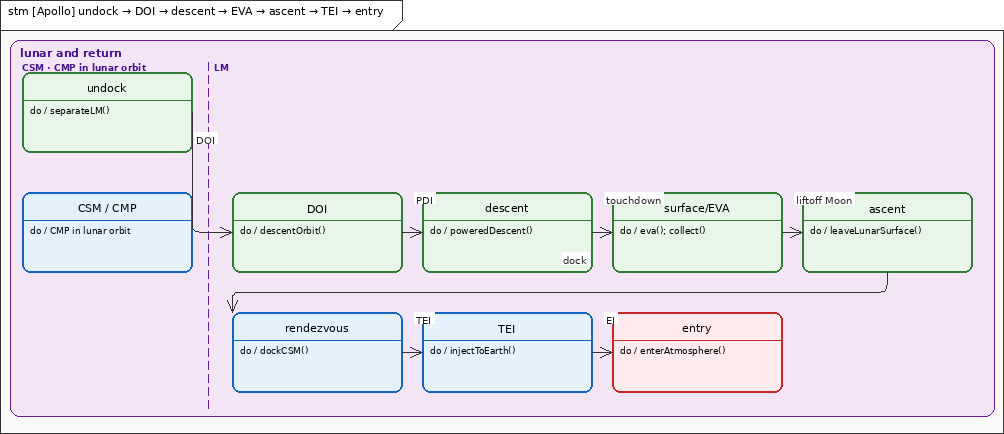
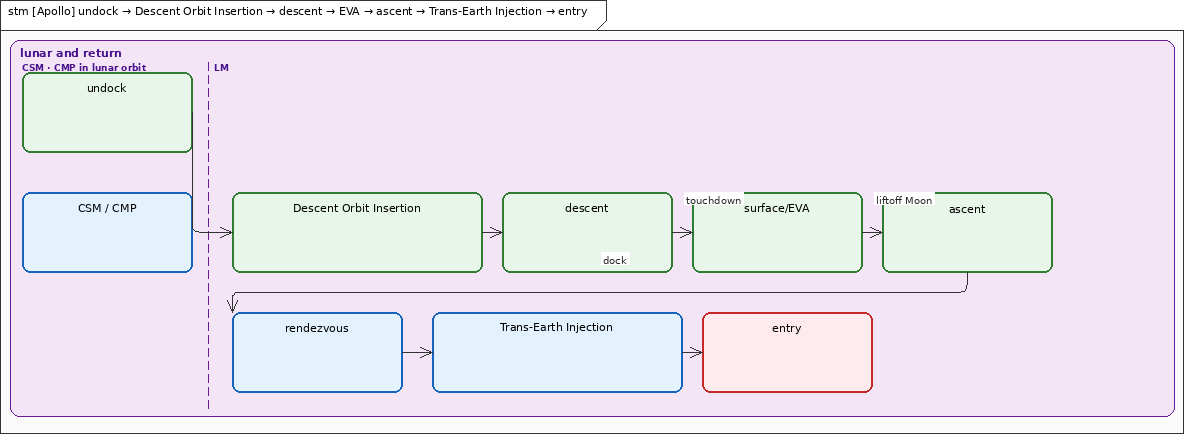
Spell leftover clock labels and keep code do lines off the boxes.
Earth orbit and second-stage cutoff on the outbound page. Descent Orbit
Insertion and Trans-Earth Injection on the lunar page. Views no longer
inherit model do/entry/exit, so separateLM() stays in the model only.
apollo-bdd is unchanged.

diff --git a/tests/test_apollo_example.py b/tests/test_apollo_example.py
@@ -783,8 +783,10 @@ class ApolloExampleTests(unittest.TestCase):
         self.assertEqual(by_id["s-TLI"]["display_name"], "Translunar Injection")
         self.assertEqual(by_id["s-LOI"]["display_name"], "Lunar Orbit Insertion")
         self.assertEqual(by_id["s-rso"]["display_name"], "Range Safety Officer")
+        self.assertEqual(by_id["s-earthOrbit"]["display_name"], "Earth orbit")
         self.assertIn("Ground Elapsed Time", stm["name"])
         stm_rels = {rel["id"]: rel for rel in stm["relationships"]}
+        self.assertEqual(stm_rels["t-boost-earthOrbit"]["name"], "second-stage cutoff")
         self.assertEqual(stm_rels["t-earthOrbit-TLI"].get("name"), "")
         self.assertEqual(stm_rels["t-translunar-LOI"].get("name"), "")
         abort = read_json_file(APOLLO / "apollo-abort.msmd")["diagram"]
@@ -814,3 +816,52 @@ class ApolloExampleTests(unittest.TestCase):
         self.assertIn("orange = engine", lm["name"])
         self.assertIn("cyan = radar", lm["name"])
         self.assertIn("red = abort", lm["name"])
+
+    def test_clock_views_spell_names_and_drop_code_do(self) -> None:
+        stm = read_json_file(APOLLO / "apollo-stm.msmd")["diagram"]
+        lunar = read_json_file(APOLLO / "apollo-stm-lunar.msmd")["diagram"]
+        stm_els = {el["id"]: el for el in stm["elements"]}
+        lunar_els = {el["id"]: el for el in lunar["elements"]}
+        self.assertEqual(stm_els["s-earthOrbit"]["display_name"], "Earth orbit")
+        self.assertEqual(lunar_els["s-DOI"]["display_name"], "Descent Orbit Insertion")
+        self.assertEqual(lunar_els["s-TEI"]["display_name"], "Trans-Earth Injection")
+        stm_rels = {rel["id"]: rel for rel in stm["relationships"]}
+        self.assertEqual(stm_rels["t-boost-earthOrbit"]["name"], "second-stage cutoff")
+        self.assertIn("Descent Orbit Insertion", lunar["name"])
+        self.assertIn("Trans-Earth Injection", lunar["name"])
+        self.assertNotIn("DOI", lunar["name"])
+        self.assertNotIn("TEI", lunar["name"])
+        for diagram in (stm, lunar):
+            for el in diagram["elements"]:
+                self.assertNotIn("do", el, el["id"])
+                self.assertNotIn("entry", el, el["id"])
+                self.assertNotIn("exit", el, el["id"])
+                self.assertNotEqual(el.get("display_name"), "earthOrbit", el["id"])
+                self.assertNotEqual(el.get("display_name"), "DOI", el["id"])
+                self.assertNotEqual(el.get("display_name"), "TEI", el["id"])
+            for rel in diagram.get("relationships") or []:
+                self.assertNotEqual(rel.get("name"), "SECO", rel["id"])
+                self.assertNotEqual(rel.get("name"), "earthOrbit", rel["id"])
+                self.assertNotEqual(rel.get("name"), "DOI", rel["id"])
+                self.assertNotEqual(rel.get("name"), "TEI", rel["id"])
+        for stem in ("apollo-stm", "apollo-stm-lunar"):
+            text = (APOLLO / f"{stem}.msmd").read_text(encoding="utf-8")
+            self.assertNotIn("SECO", text)
+            self.assertNotIn("separateLM", text)
+            self.assertNotIn('"do"', text)
+            self.assertNotIn('"entry"', text)
+        note = (APOLLO / "architecture-summary.md").read_text(encoding="utf-8")
+        self.assertIn("Earth orbit", note)
+        self.assertIn("Descent Orbit Insertion", note)
+        self.assertIn("Trans-Earth Injection", note)
+        self.assertEqual(
+            {el["id"]: el.get("display_name") for el in read_json_file(APOLLO / "apollo-lgc-stm.msmd")["diagram"]["elements"] if el.get("display_name")},
+            {
+                "l-p63": "braking",
+                "l-p64": "approach",
+                "l-p65": "auto land",
+                "l-p66": "rate of descent",
+                "l-p67": "manual",
+                "l-p68": "landing confirmation",
+            },
+        )

diff --git a/src/msml/render.py b/src/msml/render.py
@@ -216,7 +216,15 @@ class MSMLRenderer:
     # ------------------------------------------------------------ elements
 
     def _draw_element(self, draw, el):
+        view_activity = {key: el[key] for key in ("do", "entry", "exit") if key in el}
+        view_type = el.get("type")
         el = self._resolve_element(el)
+        if view_type == "state" or el.get("type") == "state":
+            for key in ("do", "entry", "exit"):
+                if key in view_activity:
+                    el[key] = view_activity[key]
+                else:
+                    el.pop(key, None)
         handler = getattr(self, f"_draw_{el['type']}", None)
         if handler:
             handler(draw, el)

diff --git a/projects/apollo/architecture-summary.md b/projects/apollo/architecture-summary.md
@@ -132,11 +132,11 @@ The mission clock cannot skip a beat. Confirm `dockEject` sits between TLI and t
 
 ![Outbound mission states from countdown through lunar orbit insertion.](apollo-stm.png)
 
-**Figure. `apollo-stm.png`.** The outbound composite holds countdown → boost → earth orbit → Translunar Injection → dockEject → translunar → Lunar Orbit Insertion. The dashed region is abort plus the Range Safety Officer, concurrent with the nominal clock until destruct is safed after Earth orbit. Locked Ground Elapsed Time numbers stay in the GET paragraph below. The locked path is Translunar Injection → dockEject → translunar → Lunar Orbit Insertion.
+**Figure. `apollo-stm.png`.** The outbound composite holds countdown → boost → Earth orbit → Translunar Injection → dock/eject → translunar → Lunar Orbit Insertion. The dashed region is abort plus the Range Safety Officer, concurrent with the nominal clock until destruct is safed after Earth orbit. Locked Ground Elapsed Time numbers stay in the GET paragraph below. The locked path is Translunar Injection → dockEject → translunar → Lunar Orbit Insertion.
 
 ![Lunar and return mission states from undock through entry.](apollo-stm-lunar.png)
 
-**Figure. `apollo-stm-lunar.png`.** After undock the page splits: CSM / CMP in lunar orbit runs concurrent with the LM from DOI through ascent. Descent, surface/EVA, and ascent still nest under the surface composite in the model. Splash and recovery live in the GET paragraph below, not on the Land box.
+**Figure. `apollo-stm-lunar.png`.** After undock the page splits: CSM / CMP in lunar orbit runs concurrent with the LM from Descent Orbit Insertion through ascent. Descent, surface/EVA, and ascent still nest under the surface composite in the model. Splash and recovery live in the GET paragraph below, not on the Land box.
 
 `dockEject` is its own state (CMP-owned, SM RCS, probe-drogue).
 
